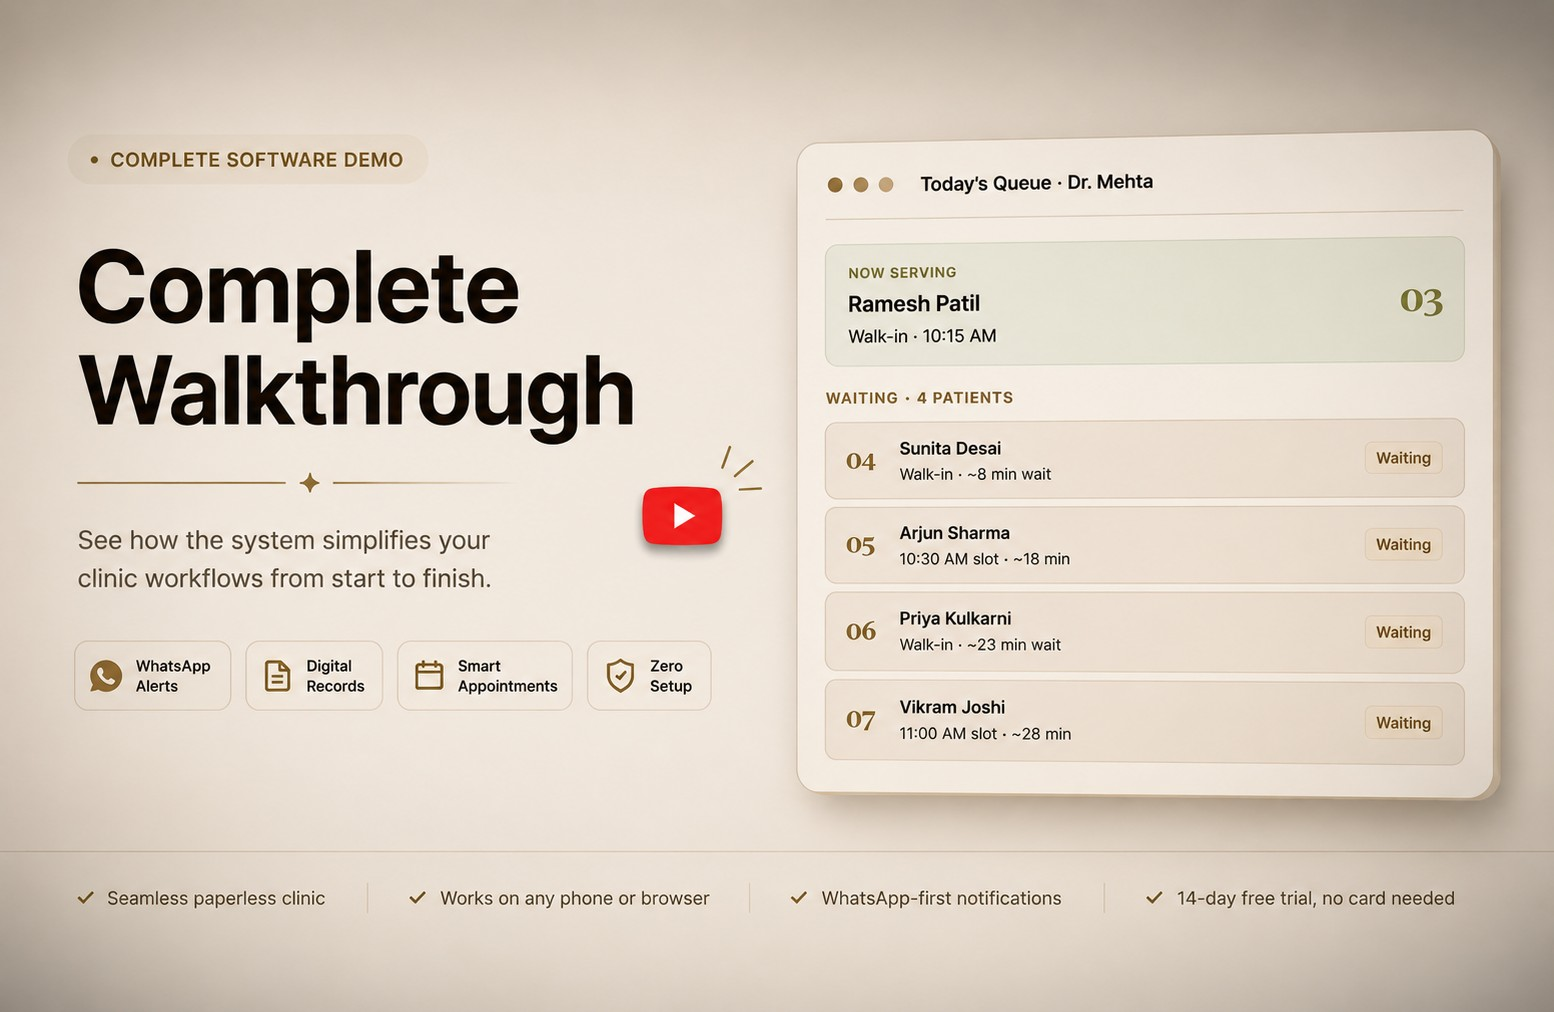
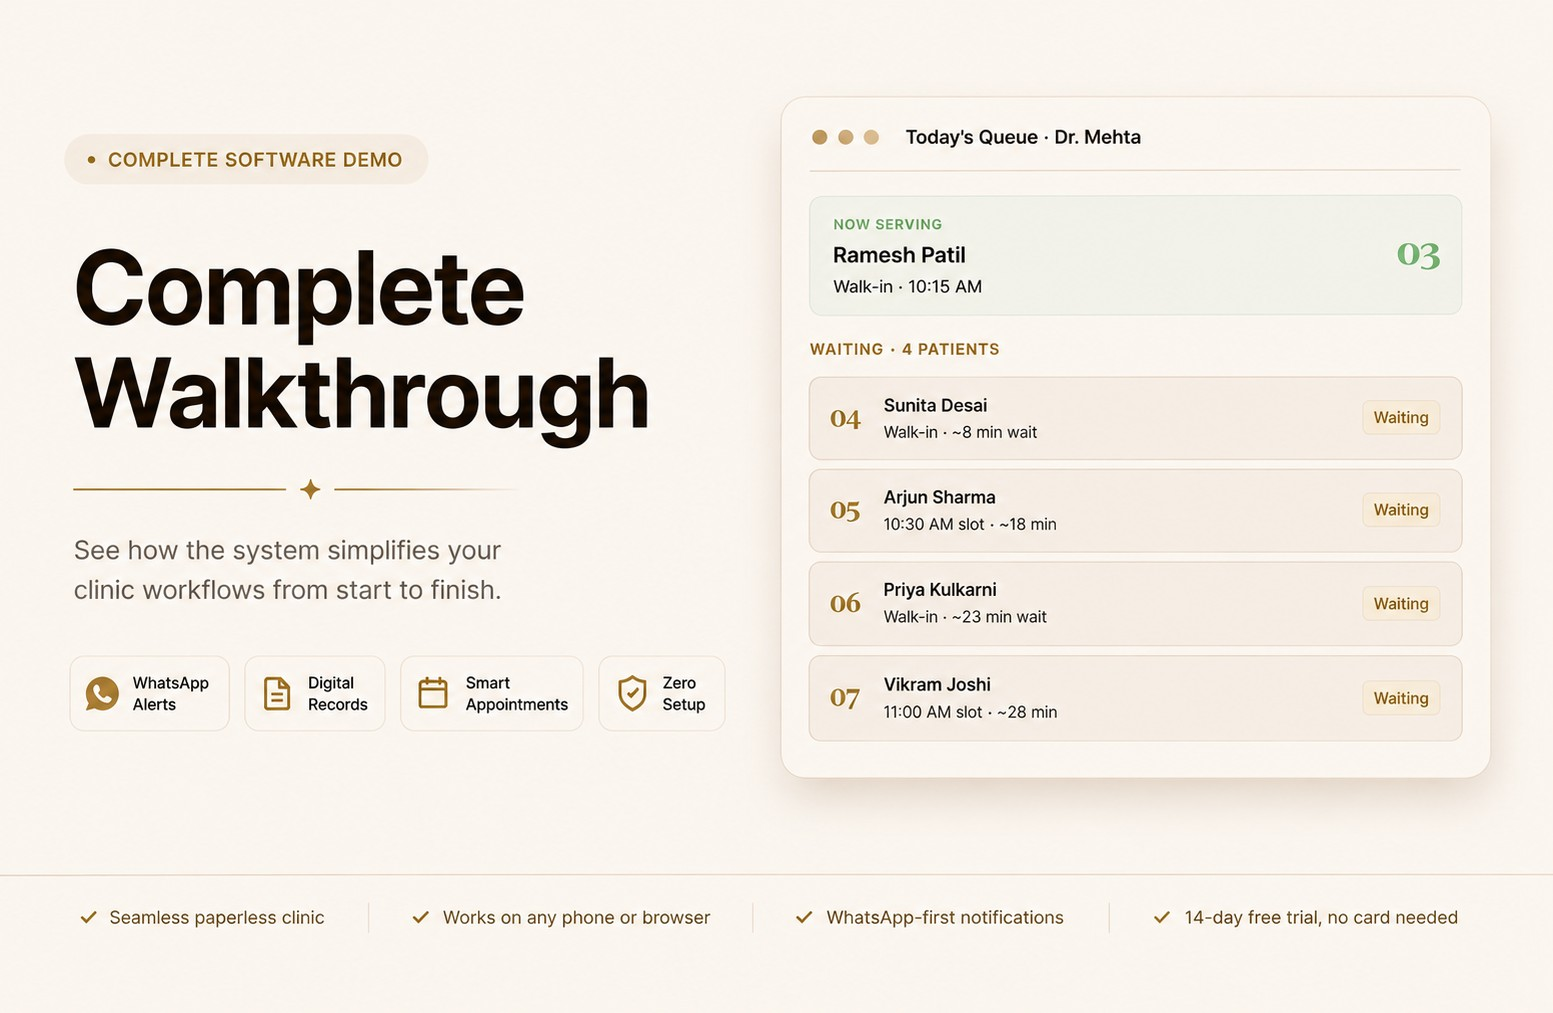
Corrected the thumbanil

diff --git a/templates/landing.html b/templates/landing.html
@@ -266,9 +266,10 @@
     .macbook-bg-blur {
       position: absolute;
       inset: 4%;
-      background-image: url("/static/img/macbook-bg-blur.png");
-      background-size: cover;
-      background-position: center;
+      /* CSS gradient glow — macbook-bg-blur.png (a blurred screenshot behind
+         the mockup) was removed; this reproduces the same ambient warmth
+         without needing an image asset. */
+      background: radial-gradient(ellipse at center, rgba(180, 130, 60, .28), transparent 70%);
       filter: blur(40px);
       opacity: 0.8;
       z-index: 1;
@@ -2000,15 +2001,24 @@
     // Optional custom thumbnail. Leave '' to auto-use YouTube's thumbnail.
     // To use a custom image: drop it in static/img/ and set e.g.
     //   var DEMO_THUMBNAIL = '/static/img/demo-thumb.jpg';
-    var DEMO_THUMBNAIL = '/static/img/demo-thumb.jpg';
+    // The ?v= is a cache-buster — bump it any time a thumbnail's CONTENT
+    // changes (same filename, new bytes), otherwise browsers keep showing
+    // the old cached image indefinitely.
+    var DEMO_THUMBNAIL = '/static/img/demo-thumb.jpg?v=2';
+    // Separate art for dark theme — swapped live by setDemoPoster() below,
+    // called both on load and from toggleTheme(), since theme switches
+    // client-side without a page reload.
+    var DEMO_THUMBNAIL_DARK = '/static/img/demo-thumb-dark.jpg?v=1';
 
     // Set the poster background: custom image → YouTube thumbnail → amber gradient
-    (function setDemoPoster() {
+    function setDemoPoster() {
       var poster = document.getElementById('videoPoster');
       if (!poster) return;
+      var isLight = document.documentElement.classList.contains('light');
+      var thumb = (isLight || !DEMO_THUMBNAIL_DARK) ? DEMO_THUMBNAIL : DEMO_THUMBNAIL_DARK;
       var bg = '';
-      if (DEMO_THUMBNAIL) {
-        bg = DEMO_THUMBNAIL;
+      if (thumb) {
+        bg = thumb;
       } else if (DEMO_VIDEO_ID && DEMO_VIDEO_ID !== 'YOUR_VIDEO_ID') {
         bg = 'https://img.youtube.com/vi/' + DEMO_VIDEO_ID + '/maxresdefault.jpg';
       }
@@ -2023,7 +2033,8 @@
         poster.style.backgroundRepeat = 'no-repeat';
         poster.classList.add('ln-video-poster--has-thumb');
       }
-    })();
+    }
+    setDemoPoster();
 
     function loadDemoVideo() {
       if (!DEMO_VIDEO_ID || DEMO_VIDEO_ID === 'YOUR_VIDEO_ID') {
@@ -2043,6 +2054,7 @@
       localStorage.setItem('theme', isLight ? 'light' : 'dark');
       document.getElementById('themeIconSun').style.display = isLight ? 'block' : 'none';
       document.getElementById('themeIconMoon').style.display = isLight ? 'none' : 'block';
+      setDemoPoster();
     }
     // Set correct icon on load
     (function () {
